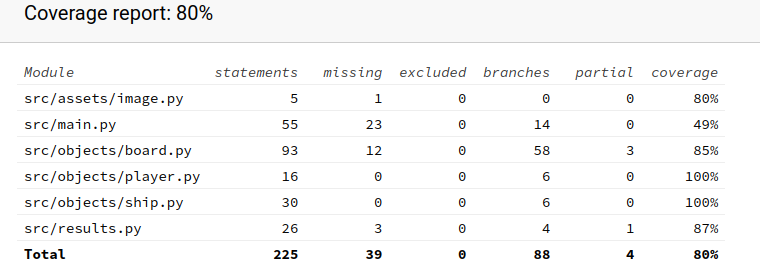
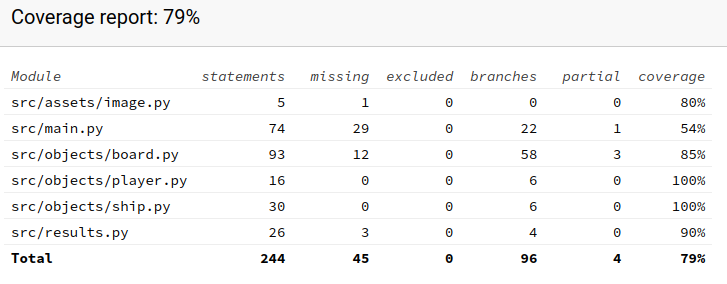
updated documentation, added pictures

diff --git a/src/ui/pvc.py b/src/ui/pvc.py
@@ -41,7 +41,10 @@ class PvC:
         hight : hight of the screen in pixels
         player_board : board object for player ships
         ai_board : board object for computer
-        title_font : font settings
+        title_font & font : font settings
+        player & computer : player-objects
+        game : status of the game
+        results_file : results object
         '''
     def __init__(self, screen, width, hight, player_board, ai_board):
         self.screen = screen
@@ -50,7 +53,7 @@ class PvC:
         self.player_board = player_board
         self.comp_board = ai_board
         self.title_font = pygame.font.SysFont('alias', 70)
-        self.announcement_font = pygame.font.SysFont('alias', 50)
+        self.announcement_font = pygame.font.SysFont('alias', 40)
         self.font = pygame.font.SysFont('alias', 40)
         self.player = Player("Pelaaja PvC", True)
         self.computer = Player("AI", False)
@@ -88,7 +91,7 @@ class PvC:
         ships = [('Lentotukialus', 5), ('Taistelulaiva',4), ('Risteilijä',3), ('Sukellusvene',3), ('Hävittäjä',2)]
         clock = pygame.time.Clock()
         clock.tick(FPS)
-        announcement = 'Aseta laivat oikeapuoliselle kentälle!'
+        announcement = 'Aseta laivat oikeapuoliselle kentälle! Vasen näppäin = vaaka, oikea näppäin = pysty.'
         self.announcement(announcement)
         running = True
         while running:
@@ -251,8 +254,8 @@ class PvC:
         announcement_place = announcement.get_rect(center=(self.width/2, self.higth-80))
         self.screen.blit(announcement, announcement_place)
         pygame.display.update()
-        pygame.time.delay(1000)
-        pygame.draw.rect(self.screen, background, [self.width/8, self.higth-120, 1020, 120])
+        pygame.time.delay(1500)
+        pygame.draw.rect(self.screen, background, [self.width/10-30, self.higth-120, 1200, 120])
         pygame.display.update()
 
     def sunken_ships_player(self):

diff --git a/src/ui/scores.py b/src/ui/scores.py
@@ -13,12 +13,11 @@ text_color = (0,51,102)
 rect_color = (155, 255, 229)
 
 class Scores:
-    ''' Main menu for BattleShip game
+    ''' Main menu for Scores of the game
         Arguments:
         screen : screen object
         width : screen width in pixels
         hight : screen hight in pixels
-        font : font settings
         '''
     def __init__(self, screen, width, hight):
         self.screen = screen
@@ -28,7 +27,7 @@ class Scores:
         self.h_mid = hight/2
 
     def scores(self, results):
-        ''' Main menu screen and Menu subjects. '''
+        ''' Main menu screen and Scores subjects. '''
         title = self.title_font.render('Laivanupotus', True, text_color)
         scores = self.title_font.render('Tulokset', True, text_color)
         quit = self.font.render('Palaa Menu-valikkoon', True, text_color)
@@ -49,7 +48,7 @@ class Scores:
             score2 = self.font.render('2. Tyhjä', True, text_color)
             score3 = self.font.render('3. Tyhjä', True, text_color)
 
-        '''Text on screen'''
+        '''Texts on screen'''
         title_place = title.get_rect(center=(self.w_mid, self.h_mid/6))
         scores_place = scores.get_rect(center=(self.w_mid, (self.h_mid/2)))
         quit_place = quit.get_rect(center=(self.w_mid, (self.h_mid+300)))
@@ -57,7 +56,7 @@ class Scores:
         score2_place = score2.get_rect(center=(self.w_mid, self.h_mid))
         score3_place = score3.get_rect(center=(self.w_mid, self.h_mid+100))
 
-        '''Main menu loop'''
+        '''Main menu loop for returning to Main Menu'''
         running = True
 
         while running:
@@ -68,7 +67,6 @@ class Scores:
                 if event.type == pygame.MOUSEBUTTONDOWN:
                     if self.w_mid - 225 < mouse_pos[0] < self.w_mid + 225 and self.h_mid + 260 < mouse_pos[1] < self.h_mid + 330:
                         return
-
             
             self.screen.fill(background)
 

diff --git a/src/tests/test_main.py b/src/tests/test_main.py
@@ -1,9 +1,14 @@
+import os
 import unittest
+from unittest import result
 import pygame
 from main import Main
 from ui.menu import Menu
 from ui.single import Single
 from ui.pvc import PvC
+from results import Results
+
+dirname = os.path.dirname(__file__)
 
 class TestShip(unittest.TestCase):
     def setUp(self):
@@ -13,6 +18,8 @@ class TestShip(unittest.TestCase):
         HIGHT = 50
         self.width = CELL*WIDTH
         self.hight = CELL*HIGHT
+        self.test_results = Results("test_results.txt")
+        self.test_file = os.path.join(dirname, "..","test_results.txt")
 
     def test_main(self):
         self.assertEqual(self.width, 150)
@@ -44,3 +51,12 @@ class TestShip(unittest.TestCase):
         test_screen = pygame.display.set_mode((self.width, self.hight))
         self.assertNotIsInstance(self.main.start_pvc(test_screen), Single)        
 
+    def test_result_file(self):
+        test_setup1 = ("TestUser", "48")
+        test_setup2 = ("TestUser2", "56")
+        test_setup3 = ("TestUser", "48")
+        self.test_results.write_results(test_setup1)
+        self.test_results.write_results(test_setup2)
+        self.test_results.write_results(test_setup3)
+        self.assertIsInstance(self.main.result_list(), list)
+        os.remove(self.test_file)

diff --git a/src/main.py b/src/main.py
@@ -106,6 +106,15 @@ class Main:
         return pl_vs_comp
 
     def result_list(self):
+        ''' Load results from the results_file.
+            Trim each row and change score from strin to integer.
+            Sort the list.
+            Args:
+                results : results object
+                result_list : list of the results loaded from the file
+            Returns:
+                3 best results in list (player, score)
+        '''
         results = Results()
         result_list = results.load_results()
         if not result_list:

diff --git a/src/ui/menu.py b/src/ui/menu.py
@@ -63,7 +63,6 @@ class Menu:
                     if self.w_mid - 200 < mouse_pos[0] < self.w_mid + 200 and self.h_mid/4 + 460 < mouse_pos[1] < self.h_mid/4+530:
                         return "Quit"
 
-
             self.screen.fill(background)
 
             if self.w_mid - 200 <= mouse_pos[0] <= self.w_mid + 200 and self.h_mid/4+160 <= mouse_pos[1] <= self.h_mid/4+230:

diff --git a/dokumentaatio/kayttoohje.md b/dokumentaatio/kayttoohje.md
@@ -17,22 +17,35 @@ Ohjelman voi käynnistä komennolla:
 ## Päävalikko:
 ----
 
-Sovellus käynnistyy päävalikkoon. Päävalikosta voi valita Yksinpelin ja Pelin tietokoneetta vasten valissä. Pelin lopettaminen tapahtii Lopeta peli valikossa. 
+Sovellus käynnistyy päävalikkoon. Päävalikosta voi valita Yksinpelin tai Pelin tietokoneetta vasten valissä. Lisäksi päävalikosta pääse tarkastelemaan 3 parhaan tuloksen tekijät. Pelin lopettaminen tapahtuu Lopeta peli- valikossa. Pelin pesussäännöt voi lukea [ohjeesta](https://github.com/zmejka/ot-harjoitustyo/blob/master/dokumentaatio/battleship.pdf). 
 
-### Yksinpeli:
+## Yksinpeli:
 ----
 
-Peli käynnistyy välittömästi. Pelissä on yksi kenttä, johon on piilotettu 5 laivaa. Laivojen löytämiseen on tarjolla 40 ammusta. Ampuminen tapahtuu klikkamalla hiiren vasemmalla näppäimella kentän soluja. Solu muuttuu siniseksi, jos paikassa ei ole laivaa, tai punaiseksi, jos laivaan on osuttu. Tässä pelissä jo avatun soluun ampuminen ei kuluta ammiksia. Peli päättyy, kun kaikki laivat ovat upponeet, tai kun ammukset loppuvat. Tämän jälkeen peli palautuu automaattisesti Päävalikkon.
+Peli käynnistyy välittömästi. Pelissä on yksi kenttä, johon on piilotettu 5 laivaa. Laivojen löytämiseen on tarjolla 40 ammusta. Ampuminen tapahtuu klikkamalla hiiren vasemmalla näppäimella kentän soluja. Solu muuttuu siniseksi, jos paikassa ei ole laivaa, tai punaiseksi, jos laivaan on osuttu. Kun koko laiva on uppunut, tulostuu ruudulle ilmoitus mikä laiva on upotettu. Tässä pelissä jo avatun soluun ampuminen ei kuluta ammiksia. Peli päättyy, kun kaikki laivat ovat upponeet, tai kun ammukset loppuvat. Tämän jälkeen peli palautuu automaattisesti Päävalikkon. Jos pelin halua keskeyttää, pääsee takausiin Päävalikkoon Paluu-näppäintä painamalla.
 
-### Kaksinpeli:
+Yksinpelin näkymä.
+
+![Yksinpeli](https://github.com/zmejka/ot-harjoitustyo/blob/master/dokumentaatio/kuvat/single_layout.png)
+
+## Kaksinpeli:
 ----
 
 Pelin alussa pelaaja asettaa oikean puoliselle (omalle) kentälle 5 laiva. Laivat asetetaan seuraavassa järjestyksessä.
 Laivat:
-Carrier (Lentotukialus) - 5 solua
-Battleship (Taistelulaiva) - 4 solua
-Cruiser (Risteilija) - 3 solua
-Submarine (Sukellusvene) - 3 solua
-Destroyer (Hävittäjä) - 2 solua
 
-Laivat asetetaan painamalla haluttuun paikkaan joko hiiren vasenta näppäintä, jolloin laiva asettuu vaakaasentoon, tai hiiren oikeinta näppäintä, jolloin laiva asettuu pystyasentoon. Laivoja ei voi asettaa kenttään ulkopuolelle tai päällekkäin. Kun laivat  on asetettu kentälle, peli alkaa. Pelaaja ampuu vasemman puoliselle (vastustajan) kentälle. Tässä pelissä ei ole rajoitettu ammusten määrä, mutta jo kertalleen ammutun kenttään ampumisellä menettää vuoron tietokoneelle. Peli päätyy, kun pelaaja tai tietokenee onnistuu löytämään kaikki laivat. Tämän jälkeen peli palautuu automaattisesti Päävalikkon.
+- Carrier (Lentotukialus) - 5 solua
+- Battleship (Taistelulaiva) - 4 solua
+- Cruiser (Risteilija) - 3 solua
+- Submarine (Sukellusvene) - 3 solua
+- Destroyer (Hävittäjä) - 2 solua
+
+Laivat asetetaan painamalla haluttuun paikkaan joko hiiren vasenta näppäintä, jolloin laiva asettuu vaakaasentoon, tai hiiren oikeinta näppäintä, jolloin laiva asettuu pystyasentoon. Laivoja ei voi asettaa kenttään ulkopuolelle tai päällekkäin. 
+
+![Laivat](https://github.com/zmejka/ot-harjoitustyo/blob/master/dokumentaatio/kuvat/pvc_ships.png)
+
+Kun laivat  on asetettu kentälle, peli alkaa. Pelaaja ampuu vasemman puoliselle (vastustajan) kentälle. Tässä pelissä ei ole rajoitettu ammusten määrä, mutta jo kertalleen ammutun kenttään ampumisellä menettää vuoron tietokoneelle. Peli päätyy, kun pelaaja tai tietokene onnistuu löytämään ja upottamaan kaikki laivat. Tämän jälkeen peli palautuu automaattisesti Päävalikkon. Jos pelin halua keskeyttää, pääsee takausiin Päävalikkoon Paluu-näppäintä painamalla.
+
+![PvC](https://github.com/zmejka/ot-harjoitustyo/blob/master/dokumentaatio/kuvat/pvc_layout.png)
+
+

diff --git a/dokumentaatio/vaatimusmaarittely.md b/dokumentaatio/vaatimusmaarittely.md
@@ -18,17 +18,26 @@ Pelissa on valittavissa kaksi pelitapaa:
 
 ## Käyttöliittymä
 
-Pelin alussa pelaaja syöttää pelinimensä sekä valitsee pelitavan. :x: Yksinpelillä ja pelillä tietokonetta vastaan on omat pelinäkymät. :heavy_check_mark:
+Pelin alussa pelaaja valitsee pelitavan. Yksinpelillä ja pelillä tietokonetta vastaan on omat pelinäkymät. :heavy_check_mark:
 
-Yksinpelissä pelaaja pääse suoraan valitsemaan kohteen klikkaamalla ruudukkoa. Ruudun väri muuttuu riippuen osumasta joko siniseksi (ohi) tai punaiseksi (osuma). :heavy_check_mark: Pelaaja myös näkee montako ammusta hänellä on jäljellä. :heavy_check_mark: Pelaaja näkee mitkä laivat on jo upotettu. Osittain tehty.
+### Yksinpeli:
+- Yksinpelissä pelaaja pääse suoraan valitsemaan kohteen klikkaamalla ruudukkoa. Ruudun väri muuttuu riippuen osumasta joko siniseksi (ohi) tai punaiseksi (osuma). :heavy_check_mark: 
+- Pelaaja myös näkee montako ammusta hänellä on jäljellä. :heavy_check_mark: 
+- Pelaaja näkee mitkä laivat on jo upotettu. :heavy_check_mark:
 
-Pelissä tietokonetta vastaan pelaaja ensin asettaa laivat kentälle :heavy_check_mark:. Laivat eivät saa olla viistosti tai päällekkäin :heavy_check_mark: . Pelaajalla on kaksi karttanäkymää. :heavy_check_mark: Toisessa näkyy oman laivueen tilanne ja toisessa näkyy pelaajan ammunnat. :heavy_check_mark: Ammusten määrää ei ole rajoitettu ja peli päättyy, kun pelaaja tai tietokone upottaa kaikki vastustajan laivat. :heavy_check_mark:
+### Peli tietokonetta vastan:
+- Pelissä tietokonetta vastaan pelaaja ensin asettaa laivat kentälle :heavy_check_mark:. 
+- Laivat eivät saa olla viistosti tai päällekkäin :heavy_check_mark:. 
+- Pelaajalla on kaksi karttanäkymää. :heavy_check_mark: 
+- Toisessa näkyy oman laivueen tilanne ja toisessa näkyy pelaajan ammunnat. :heavy_check_mark: 
+- Ammusten määrää ei ole rajoitettu ja peli päättyy, kun pelaaja tai tietokone upottaa kaikki vastustajan laivat. :heavy_check_mark: 
+- Pelaaja näkee mitkä laivat on jo upotettu. :heavy_check_mark:
 
 ---
 
 ## Jatkokehitys
 
+ - Pelin alussa pelaaja pystyy syöttämään pelinimensä. Tätä ei ehditty tekemään :x: 
  - Peliin voidaan lisätä ääniefekteja. 
- - Pelaaja vs Pelaaja -peli.
  - Jokin järkevä tietokoneen tekoäly. Tällä hetkeellä käytössä on satunnaisuuteen perustuva ratkaisu.
- - Pelaajakohtaisten tulosten tallentaminen ja tulostaminen. 
+ - Pelaajakohtaisten tulosten tallentaminen ja tulostaminen. Osittain toteutettu. Peli tallentaan pelikohtaisen tuloksen eli kuinka monta ammusta tarvittiin kaikkien laivojen upottamiseen. 

diff --git a/dokumentaatio/testausdokumentti.md b/dokumentaatio/testausdokumentti.md
@@ -1,0 +1,18 @@
+# Laivaupotuspelin testausdokumentti
+----
+
+Sovellusta on testattu käyttämällä automaattista unittest yksikkö- ja integraatiotestejä. Lisäksi sovellusta testattu pelaamalla peliä eri koneilla ja eri käyttäjien toimeesta.
+
+## Automaattinen testaus (Unittest)
+----
+
+Yksikkö- ja integraatiotestauksella testattiin olio-luokat sekä sovelluslogikan osia. Näiltä osin testauksen haarautumakattavuudeksi saatiin 79 %.
+
+![Raportti](https://github.com/zmejka/ot-harjoitustyo/blob/master/dokumentaatio/kuvat/coverage_report.png)
+
+Testauksen ulkopuolelle jätettiin *index.py* -tiedosto. 
+
+## Käyttöliittymä
+----
+
+Käyttöliittymälle ja sprites-luokille ei tehty automaattista testausta. Käyttöliittymä on testattu manuaalisesti käyttämällä sovellusta mahdollisimman monipuolisesti. 

diff --git a/README.md b/README.md
@@ -5,7 +5,7 @@
 Sovelluksen toiminta on toteutettu Python-versiolla 3.8. 
 
 Peli on versio perinteisestä laivanupotuspelistä. Pelissä voi pelata joko yksin tai pelata tietokonetta vastaan. Yksinpelissä tavoitteena löytää kenttään piilotettuja laivoja ennen kuin ammukset loppuvat. 
-Pelissä tietokonetta vasten tavoittena upottaa tietokoneen laivat ennen kuin tietokone upottaa kaikki pelaajan laivat. Tämä osuus ei vielä toteutettu.
+Pelissä tietokonetta vasten tavoittena upottaa tietokoneen laivat ennen kuin tietokone upottaa kaikki pelaajan laivat.
 
 
 ### Dokumentaatio

diff --git a/dokumentaatio/changelog.md b/dokumentaatio/changelog.md
@@ -23,6 +23,7 @@
 - Toteutettu pelaaja vs tietokone osa.
 - Toteutettu pelajaan laivojen asettaminen kentälle.
 - Päivitetty molempien pelien käyttöliittymät.
-- Lisätty tulosten tallentaminen tiedostoon. Lisätty tulosten tulostus käyttöliittymä.
+- Lisätty tulosten tallentaminen tiedostoon. Toteutettu kolmeen parhaan tuloksen näkymä.
+- Päivitetty dokumentaatio. Lisätty käyttöohje.
 - Testaus: poistettu turhat testit (muuttujat ja metodit eivät enää käytössä). Testauksen kattavuus 80%.
 

diff --git a/dokumentaatio/tyoaikakirjanpito.md b/dokumentaatio/tyoaikakirjanpito.md
@@ -40,4 +40,5 @@
 |11.5|5| Tulosten tallentaminen tiedostoon toiminnallisuus. Unittestit.
 |12.5|3| Unittestit jatkoa. Koodin siistiminen. Turhien tulostusten ja muuttujien poistot. Dogstringien päivitys.
 |13.5|3| Dokumentaation päivitys. 
+|14.5|5| Tulosten UI ja toiminnallisuus. Dokumentaatioiden päivitys. Testauksen viimestely. Virhe-etsintä ja korjaukset.
 |Yhteensä:| 102 | tuntia
